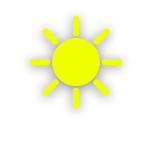
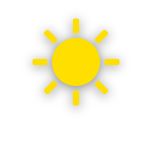
UI updates

Changed region(s): [[0.1842, 0.1053, 0.8158, 0.7105]]

diff --git a/src/components/weather/WeatherTable/index.tsx b/src/components/weather/WeatherTable/index.tsx
@@ -7,6 +7,8 @@ import { IForecast, IWeather } from "../../../weather/types";
 import './style.css';
 import { ITableData } from "./types";
 
+const { Title } = Typography;
+
 interface IWeatherTableListProps {
     tableData: ITableData,
     name: string,
@@ -17,7 +19,7 @@ class WeatherTable extends React.Component<IWeatherTableListProps> {
     public render() {
         return (
             <div>
-                {this.props.name}
+                <Title level={4}>{this.props.name}</Title>
                 <div className="columns">
 
                     {/* Time row background */}
@@ -61,13 +63,13 @@ class WeatherTable extends React.Component<IWeatherTableListProps> {
 
                     {/* Time cells and Weather cells */}
                     <div className="right-column" style={{ overflowX: 'auto' }}>
-                        <div className="time-row" style={{justifyContent: this.props.justifyRight ? "flex-end" : "space-around"}}>
+                        <div className="time-row" style={{ justifyContent: this.props.justifyRight ? "flex-end" : "space-around" }}>
                             {this.props.tableData.columns.map((column, index) =>
                                 <TimeCell key={index} time={column.date} />
                             )}
                         </div>
                         {this.props.tableData.providers.map((provider, index) =>
-                            <div key={index} className="weather-row" style={{justifyContent: this.props.justifyRight ? "flex-end" : "space-around"}}>
+                            <div key={index} className="weather-row" style={{ justifyContent: this.props.justifyRight ? "flex-end" : "space-around" }}>
                                 {this.props.tableData.columns.map((column, index) =>
                                     <WeatherCell key={index} weather={column.weatherMap.get(provider) as IWeather} />
                                 )}

diff --git a/src/weather/weatherProviders/MET.ts b/src/weather/weatherProviders/MET.ts
@@ -8,10 +8,15 @@ export default class MET extends AbstractProvider {
         super("Yr", logo)
     }
 
+    // Icon list: https://api.met.no/weatherapi/weathericon/2.0/documentation
     private icons: any = {
+        "heavyrain": WeatherIcon.heavy_rain,
         "lightrain": WeatherIcon.light_rain,
         "rain": WeatherIcon.moderate_rain,
+        "clearsky_day": WeatherIcon.clear_sky,
         "clearsky_night": WeatherIcon.clear_sky,
+        "fair_day": WeatherIcon.nearly_clear_sky,
+        "fair_night": WeatherIcon.nearly_clear_sky,
         "partlycloudy_day": WeatherIcon.half_clear_sky,
         "partlycloudy_night": WeatherIcon.half_clear_sky,
         "cloudy": WeatherIcon.cloudy_sky,

diff --git a/src/components/weather/WeatherCell/index.tsx b/src/components/weather/WeatherCell/index.tsx
@@ -21,9 +21,9 @@ const WeatherCell = (props: Props) => (
                     <img className='weather_symbol' src={require("../../../icons2/" + props.weather.symbol + ".png").default} />
                 }
                 <div>
-                    <Text strong>{Math.round(props.weather.wind)}</Text>
-                    <Text type="secondary"> ({Math.round(props.weather.gust)}) </Text>
-                    <Text strong>m/s</Text>
+                    <Text type="secondary">{Math.round(props.weather.wind) + " m/s"}</Text>
+                    <br/>
+                    <Text style={{paddingTop: "-5px"}} type="secondary"> 0 mm</Text>
                 </div>
             </React.Fragment>
         }

diff --git a/src/components/pages/WeatherPage.tsx b/src/components/pages/WeatherPage.tsx
@@ -25,6 +25,7 @@ class WeatherPage extends React.Component<IWeatherPageProps, IWeatherPageState>{
         return (
             <div>
                 <SearchBox style={{width: "100%"}}/>
+                <div style={{height: "50px"}}></div>
                 <WeatherTableList weatherStateForecasts={this.props.weatherStateForecasts} />
             </div>
         );

diff --git a/src/components/weather/WeatherTable/style.css b/src/components/weather/WeatherTable/style.css
@@ -3,6 +3,7 @@
 .columns {
     display: grid;
     grid-template-columns: 20px 1px auto;
+    margin-bottom: 20px;
 }
 
 .all-columns {
@@ -36,7 +37,7 @@
 
 .weather-row {
     margin-top: 10px;
-    height: 80px;
+    height: 100px;
     min-width: 100%;
     display: flex;
     flex-direction: row;

diff --git a/src/components/weather/WeatherCell/style.css b/src/components/weather/WeatherCell/style.css
@@ -11,8 +11,7 @@
 }
 
 .weather_symbol {
-    qfilter: drop-shadow(0 3px 3px rgba(0, 0, 0, 0.19));
     height: 50px;
-    margin-top: -5px;
-    margin-bottom: -10px;
+    margin-top: -3px;
+    margin-bottom: -6px;
 }
